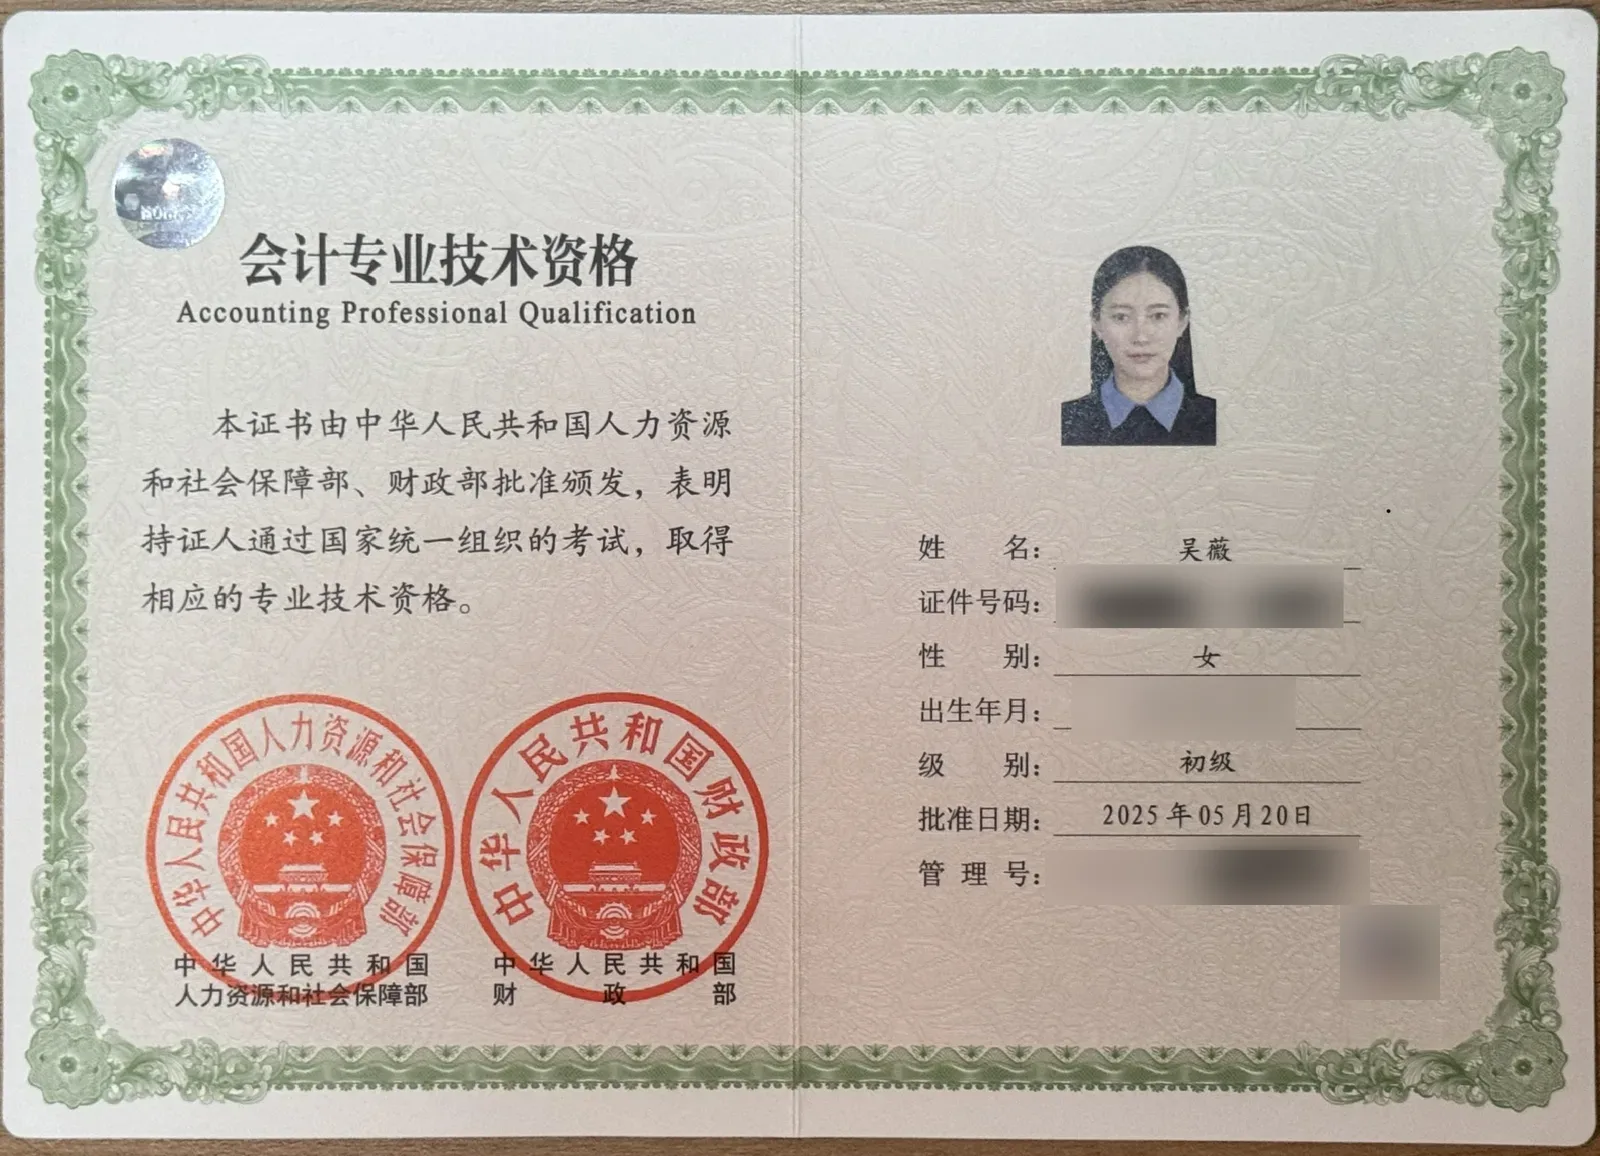
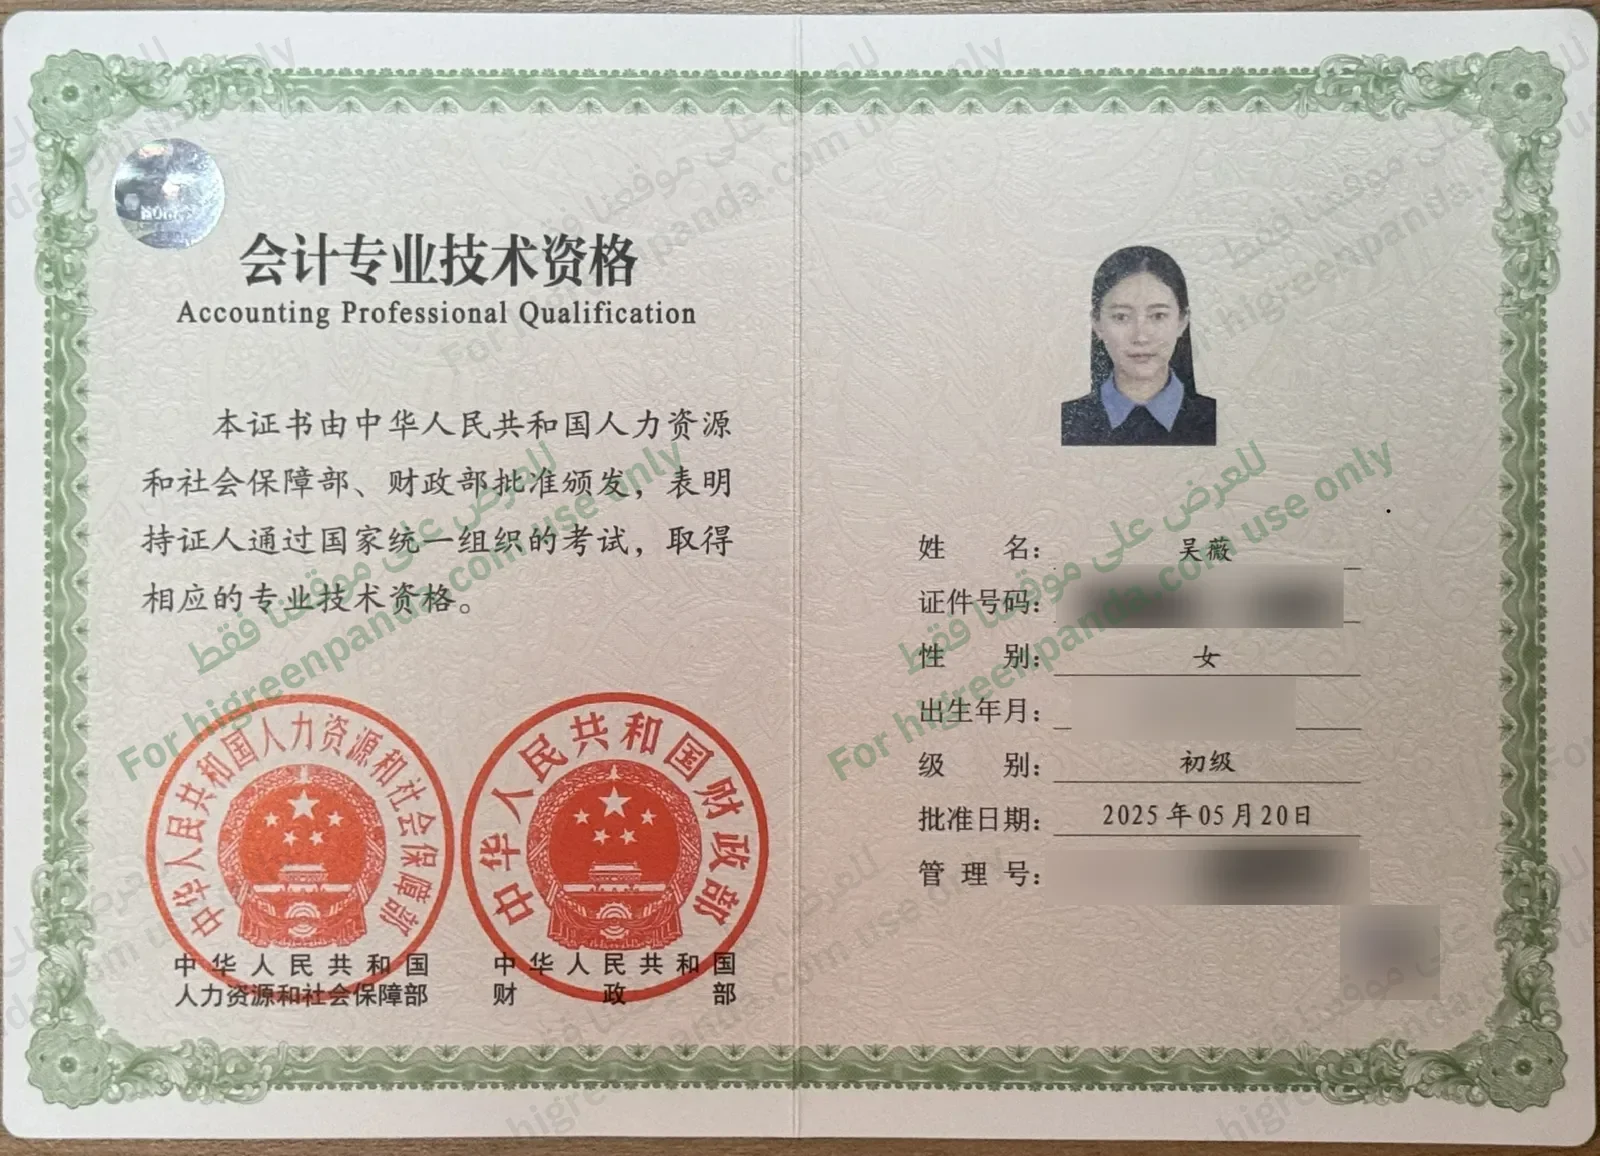
Licences: watermark every licence and certificate scan
Burns a tiled 'للعرض على موقعنا فقط / For higreenpanda.com use only'
watermark in the brand green into the four scans, so a downloaded copy
can't be reused elsewhere.

Claude-Session: https://claude.ai/code/session_01LrUSZ4V5Ffr4Zx4cS3mspn

diff --git a/src/lib/company.ts b/src/lib/company.ts
@@ -6,7 +6,8 @@
  * must never be edited by accident. Licence scans live in public/brand/licences/;
  * an entry with no `images` shows "available on request" instead. Personal
  * ID numbers, birth dates, licence codes and QR codes are blurred in the
- * scans before they are added, at the owner's request.
+ * scans before they are added, at the owner's request, and every scan carries
+ * a tiled "for higreenpanda.com use only" watermark burned into the image.
  * Fields left null are simply not rendered — fill them from the documents,
  * never from guesswork.
  */
